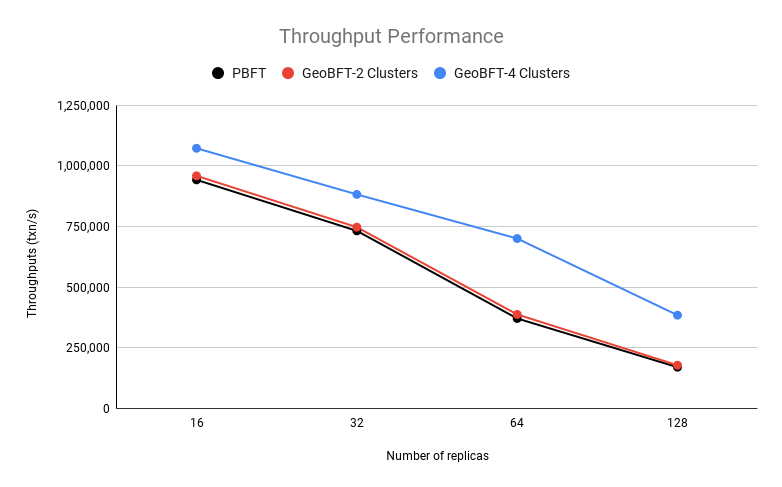
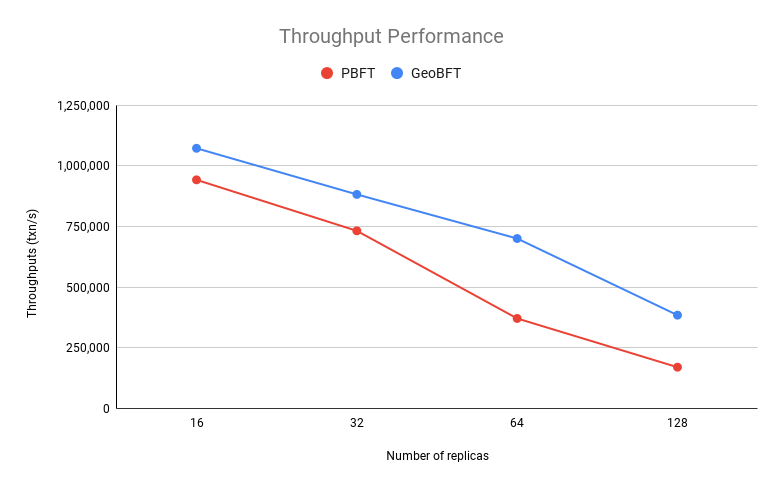
update geobft blog

diff --git a/_posts/2023-03-07-GeoBFT.md b/_posts/2023-03-07-GeoBFT.md
@@ -328,13 +328,9 @@ Nexres ran on Ubuntu, 20.04 LTS, amd64 focal image build on 2022-09-14.
 
 #### Throughput and Latency Performance
 
-The first experiment is designed to test the maximum throughput and latency of GeoBFT and compare the result with PBFT performance under the same configuration. The throughput and latency of PBFT and GeoBFT with 2 clusters and 4 clusters with different numbers of replicas are recorded. The replica number is set to 16, 32, 64, and 128.
+The first experiment is designed to test the maximum throughput and latency of GeoBFT and compare the result with PBFT performance under the same configuration. The throughput and latency of PBFT and GeoBFT with 4 clusters with different numbers of replicas are recorded. The replica number is set to 16, 32, 64, and 128.
 
-We denote GeoBFT with k clusters by Geo-k. It is clear that as the system scales, the throughput, and latency decrease. 
-
-With respect to throughput, the performance of Geo-2 is very close to PBFT, just slightly better. While Geo-4 outperforms Geo-2 and PBFT at all replica settings. The reason Geo-2 has almost the same performance as PBFT is that there is extra communication cost among clusters, and when there are only two clusters in the system, the effect of this extra cost is more significant. When the number of clusters increases to 4, we can notice that the benefit of the GeoBFT protocol has outweighed the cost.
-
-In general, the latency of Geo-2 and Geo-4 is smaller than PBFT. Only the latency of Geo-4 is slightly larger than PBFT at the 16-replica setting, this is also because of the extra cost of inter-cluster sharing under the GeoBFT protocol. As the number of replicas increases, the latency of Geo-2 and Geo-4 becomes greatly smaller than PBFT latency, the latency of Geo-4 is almost half of PBFT latency at the 128-replica setting.
+From the figure below, we can see that as the system scales, the throughput decreases and the latency increases for both PBFT and GeoBFT. With respect to throughput, GeoBFT outperforms PBFT at all replica settings. In the second graph, the average latency of GeoBFT is smaller than PBFT at all replica settings, and it is almost half of PBFT latency at the 128-replica setting.
 
 <p>
     <img src="{{ site.baseurl }}/assets/images/GeoBFT/Throughput Performance.png" alt="Cover photo" style="width: 80%"/>
